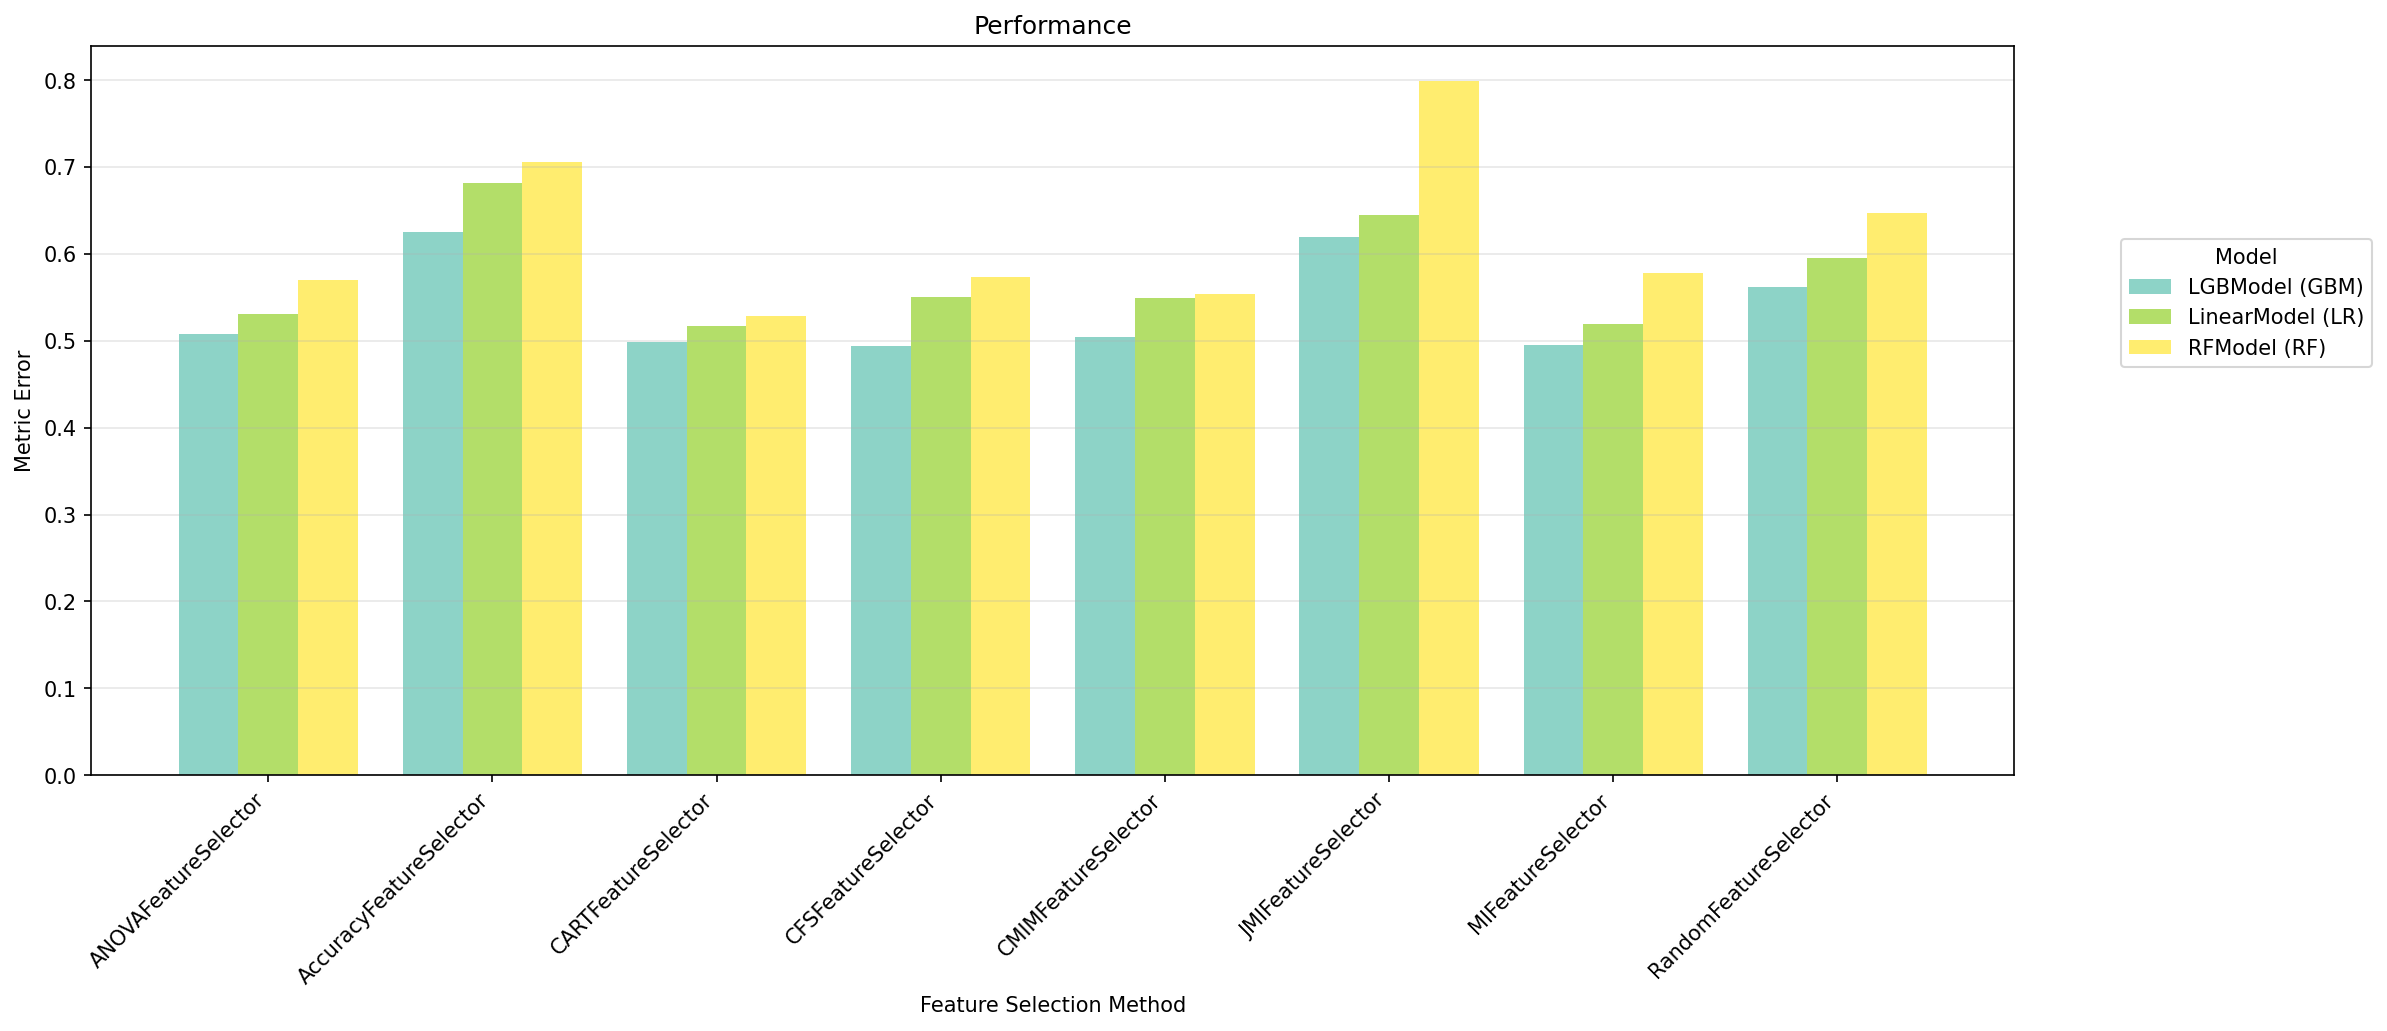
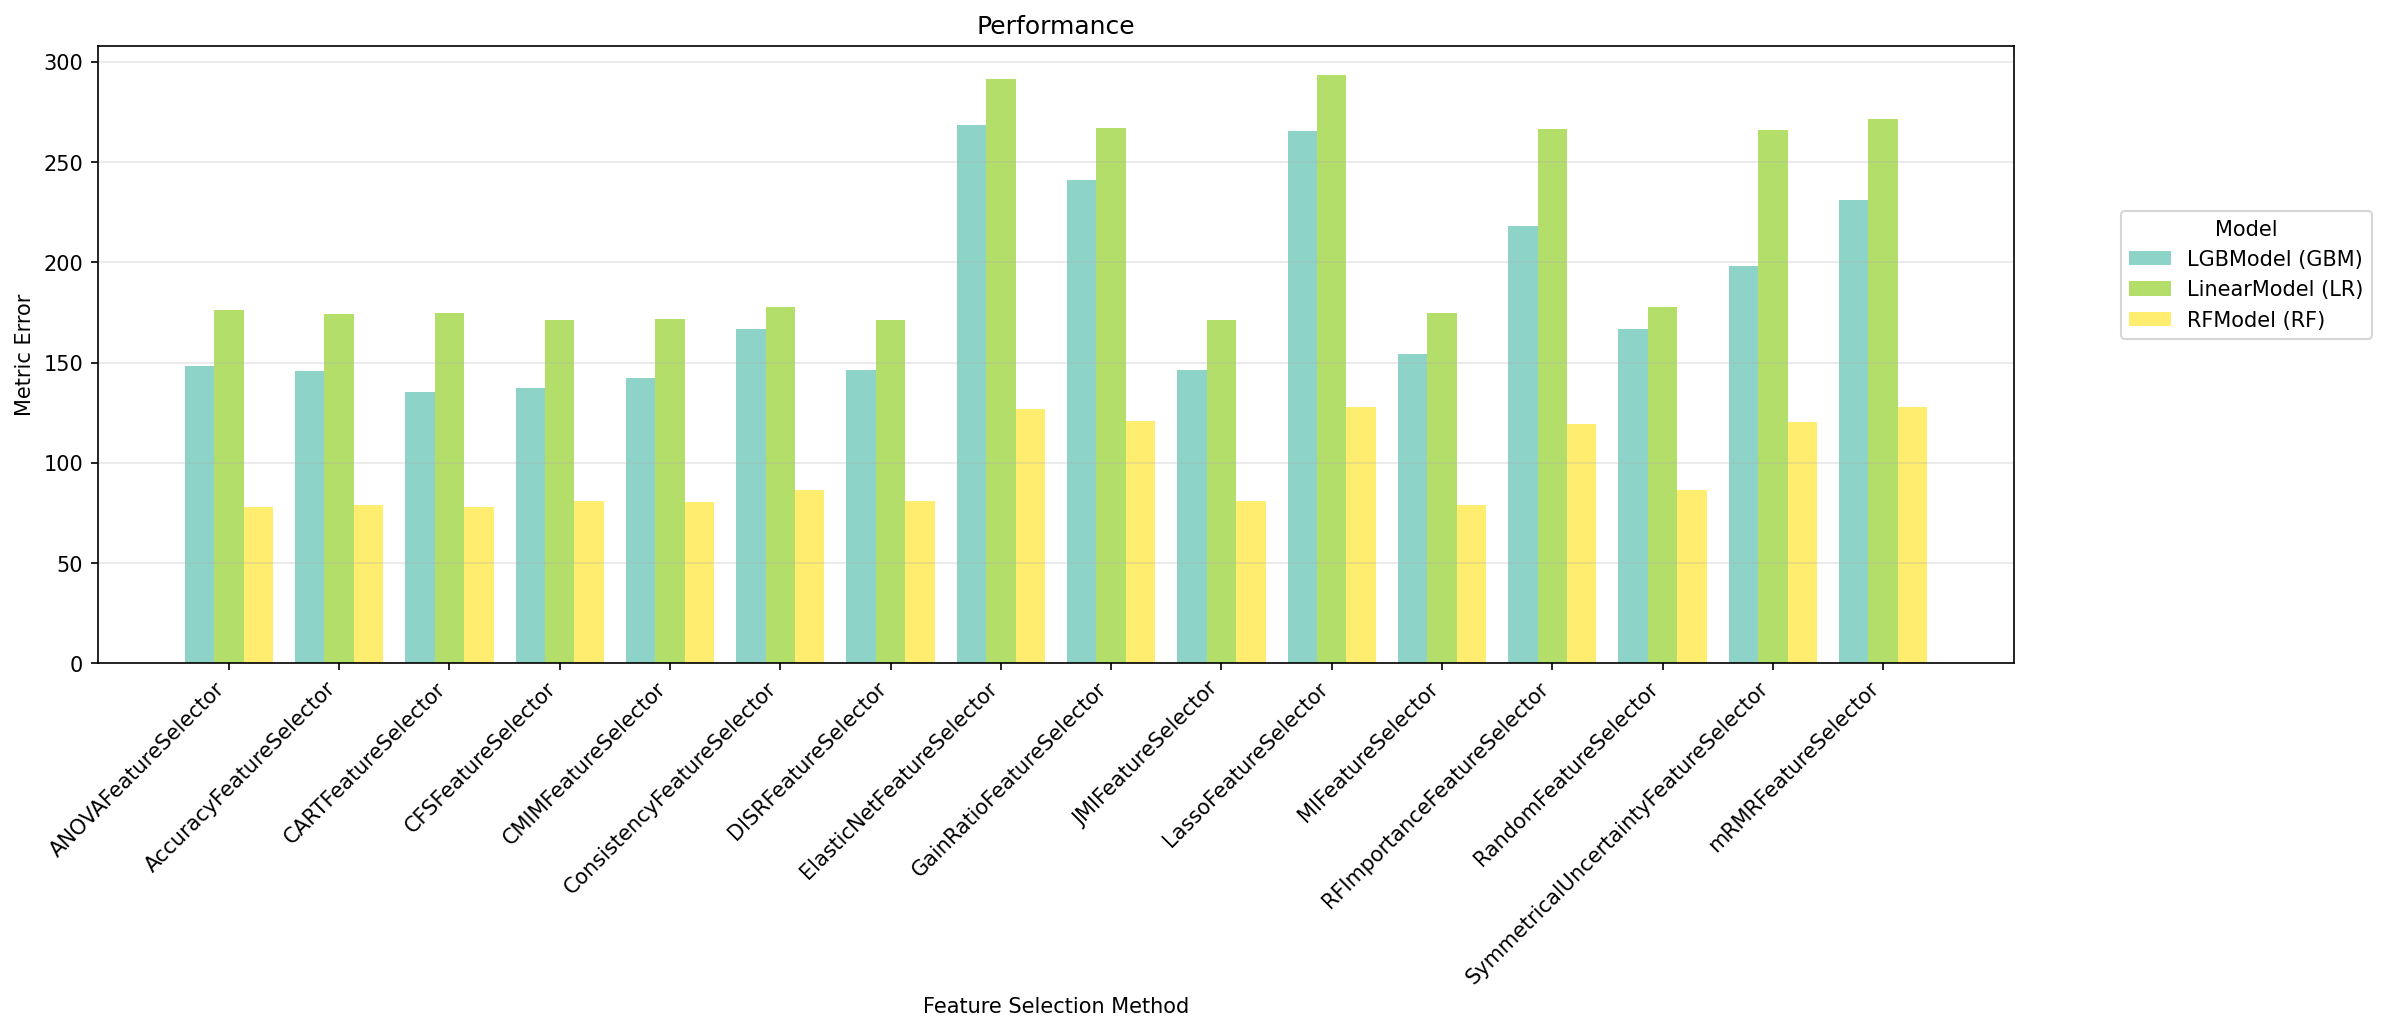
maint: update with new results

diff --git a/plotting_code/performance/performance_per_model_v1.py b/plotting_code/performance/performance_per_model_v1.py
@@ -11,7 +11,7 @@ This plot shows the
 """
 
 # TODO: Adapt file and plot name
-FILE_NAME = "dummy_performance_results.csv"
+FILE_NAME = "results_per_split.csv"
 PLOT_NAME = "performance_per_model_v1.png"
 
 # TODO: Adapt title and labels
